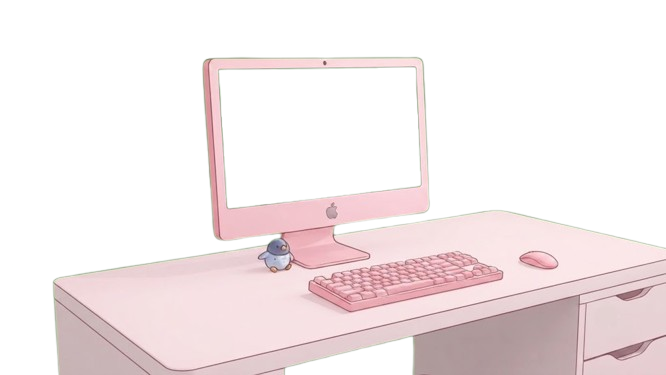
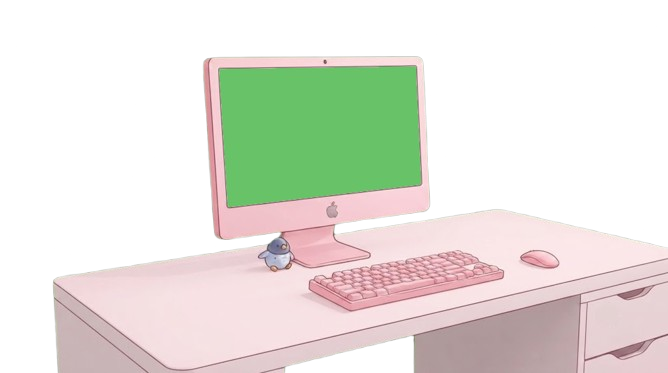
Add files via upload

diff --git a/index.html b/index.html
@@ -28,29 +28,6 @@
             height: 1080px;
         }
 
-        /* --- PRECISE GREEN SCREEN INSIDE COMPUTER MONITOR --- */
-        .monitor-green-screen {
-            position: absolute;
-            top: 205px;
-            left: 326px;
-            width: 310px;
-            height: 310px;
-            background-color: #00ff00;
-            z-index: 0;
-            border-radius: 4px;
-        }
-
-        /* --- GREEN SCREEN FOR THE WALL WINDOW --- */
-        .window-green-screen {
-            position: absolute;
-            top: 40px;
-            left: 775px;
-            width: 155px;
-            height: 325px;
-            background-color: #00ff00;
-            z-index: 0;
-        }
-
         /* --- LAYER 2: DESK WITH MONITOR OVERLAY --- */
         .desk-layer {
             position: absolute;
@@ -67,7 +44,7 @@
         .monitor-text-container {
             position: absolute;
             top: 35%;
-            left: 48%;
+            left: 51%;
             transform: translate(-50%, -50%);
             z-index: 2;
         }
@@ -100,11 +77,11 @@
             display: block;
         }
 
-        /* Bigger Peekaboo Eevee peeking over the top of the monitor */
+        /* Peekaboo Eevee peeking over the top of the monitor */
         .eevee-peekaboo {
             position: absolute;
-            top: 170px;
-            left: 425px;
+            top: 142px;
+            left: 450px;
             width: 130px;
             z-index: 3;
         }
@@ -147,12 +124,6 @@
 <body>
 
     <div class="scene">
-        <!-- Green Screen perfectly inside Computer Monitor -->
-        <div class="monitor-green-screen"></div>
-
-        <!-- Green Screen for the Window on the Wall -->
-        <div class="window-green-screen"></div>
-
         <!-- Layer 2: Desk and Monitor -->
         <img src="desk.png.png" alt="Desk" class="desk-layer">
 
